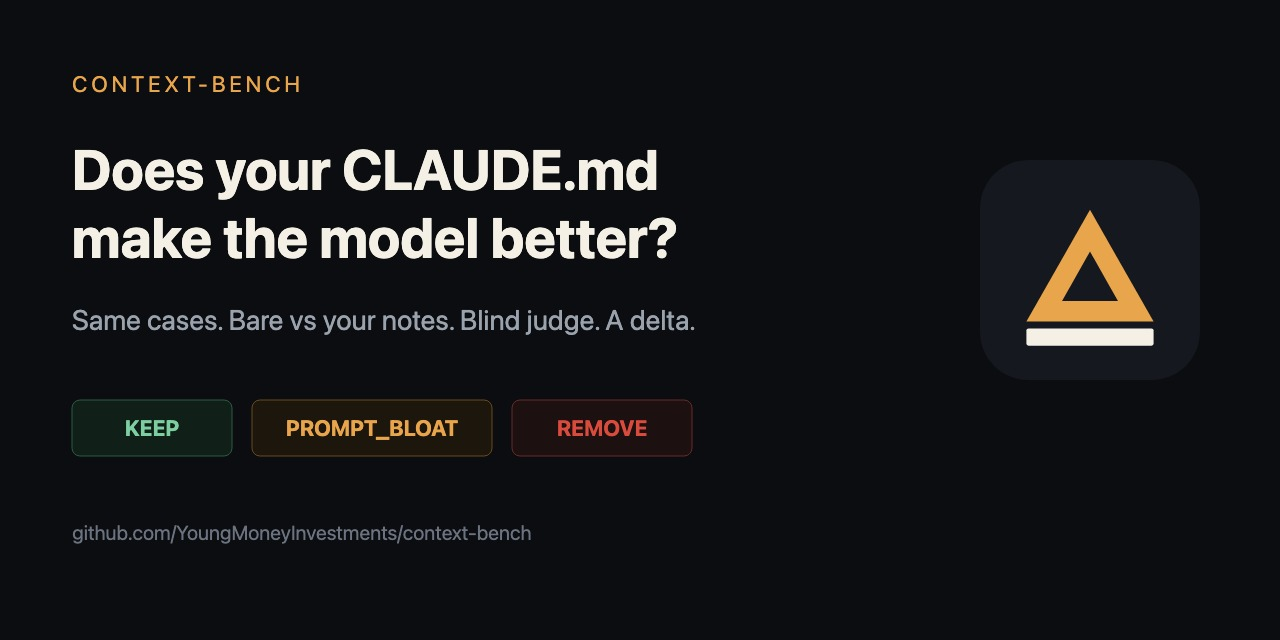
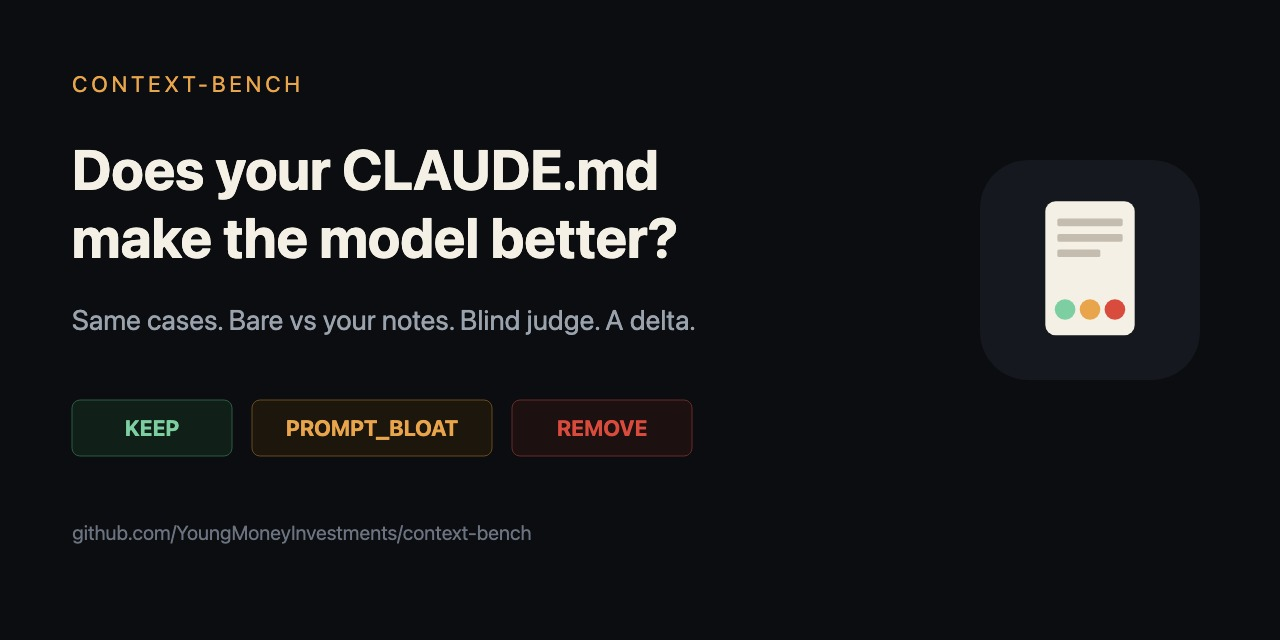
docs: replace the delta mark with a graded notes file
A focus group does not say "delta on a bench." They say yield sign.
The mark is now the object they already have — a notes page — with
the three calls they came to hear: keep, bloat, remove.

Changed region(s): [[0.7812, 0.3125, 0.9062, 0.5625]]

diff --git a/README.md b/README.md
@@ -1,5 +1,5 @@
 <p align="center">
-  <img src="docs/assets/logo.svg" width="96" height="96" alt="context-bench: a scored delta on a bench" />
+  <img src="docs/assets/logo.svg" width="80" height="80" alt="context-bench: grades your notes — keep, bloat, or remove" />
 </p>
 
 # context-bench
